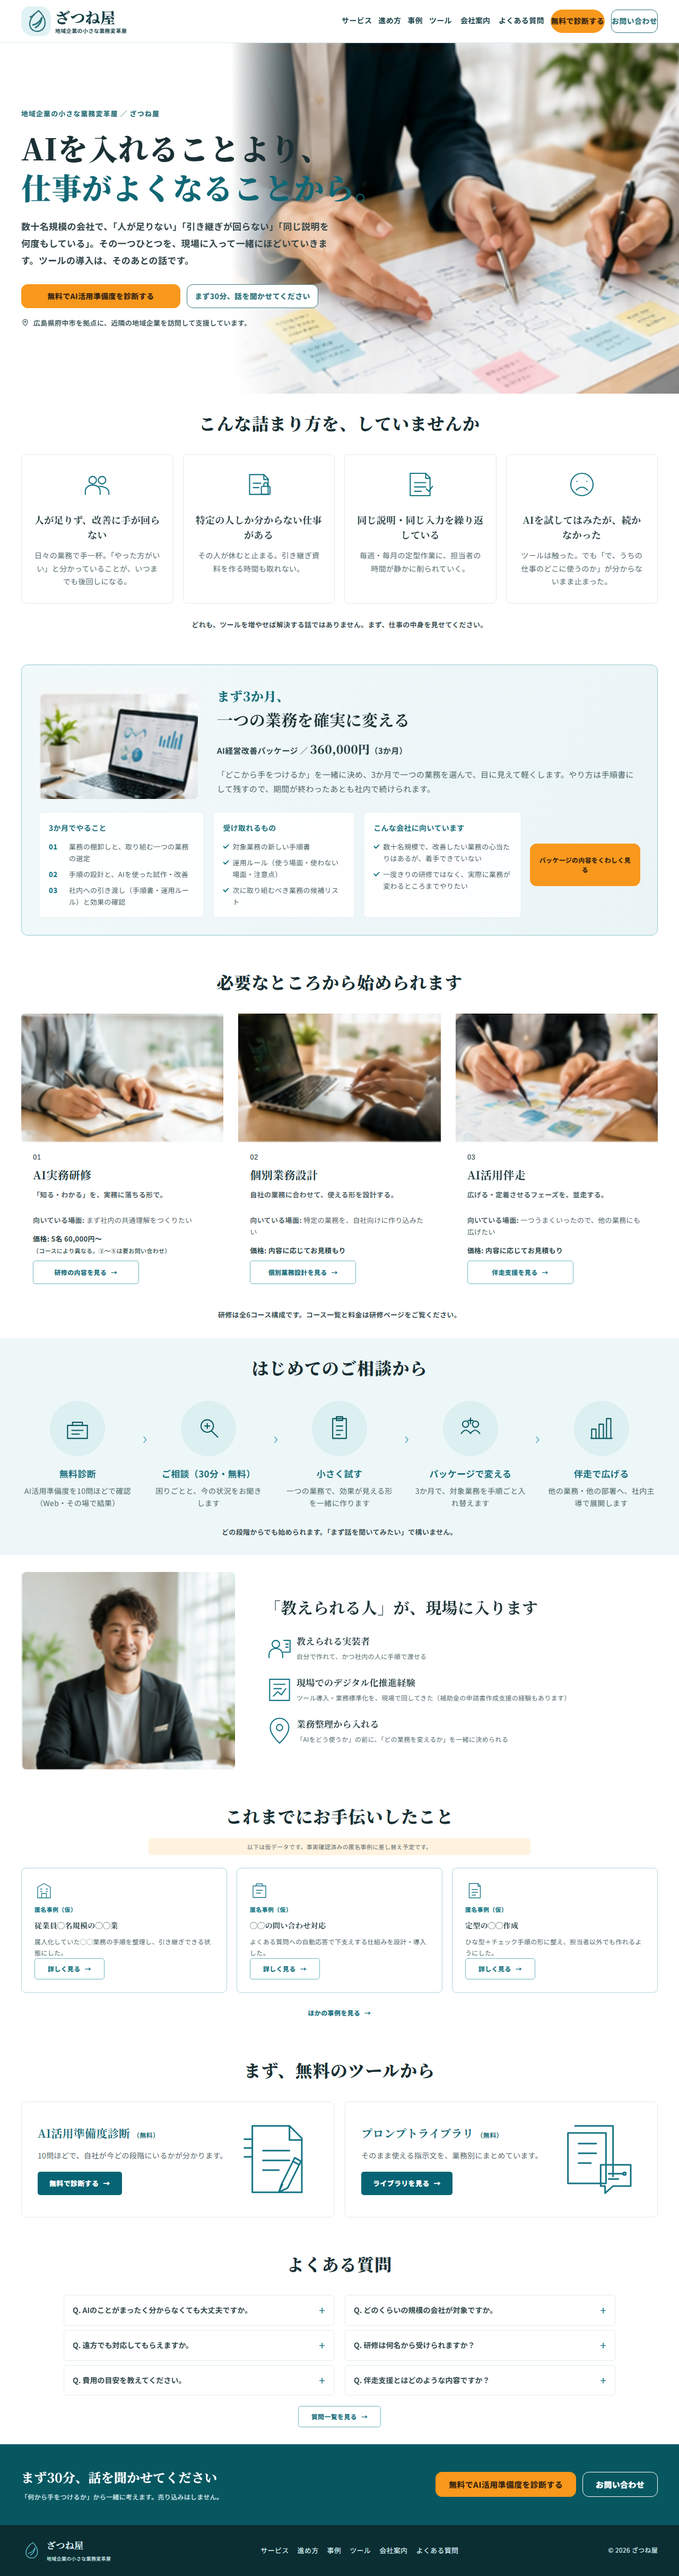
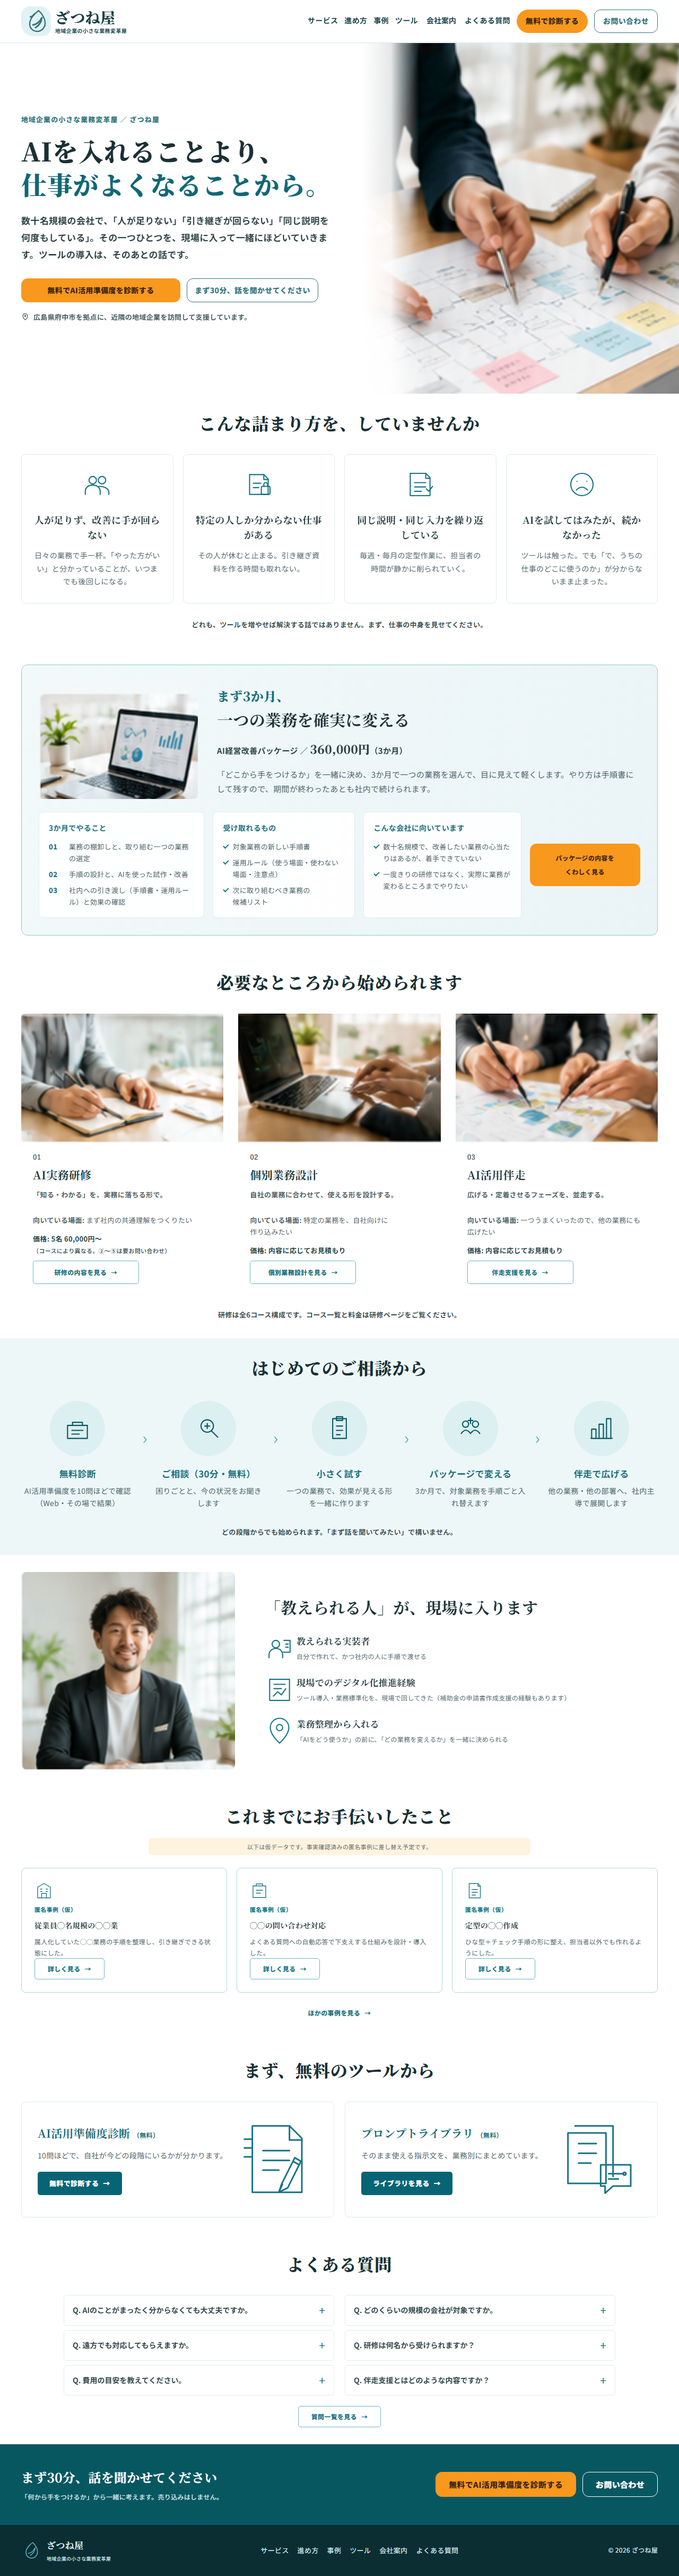
fix: TOPと共通ナビの文字はみ出しを解消

diff --git a/v2/v3-top-page.css b/v2/v3-top-page.css
@@ -4,15 +4,15 @@
 .hero-grid{display:grid;min-height:660px;grid-template-columns:minmax(0,33%) minmax(0,67%);align-items:center;gap:0}
 .hero-copy{position:relative;z-index:2;width:640px;padding:64px 0}
 .eyebrow{margin:0 0 16px;color:var(--teal-dark);font-size:13px;font-weight:800;letter-spacing:.08em}
-.hero h1{margin:0 0 20px;color:#1a3034;font-family:var(--font-serif);font-size:clamp(50px,4.4vw,64px);font-weight:800;letter-spacing:.015em;line-height:1.32}
-.hero-accent{color:#116775;white-space:nowrap}
+.hero h1{width:720px;margin:0 0 20px;color:#1a3034;font-family:var(--font-serif);font-size:clamp(48px,3.7vw,52px);font-weight:800;letter-spacing:.015em;line-height:1.32}
+.hero-intro,.hero-accent,.top-nowrap-part{white-space:nowrap}.hero-accent{color:#116775}
 .hero-lead{max-width:35em;margin:0;color:#2d4145;font-size:17px;line-height:1.9}
 .hero-actions{display:flex;width:560px;flex-wrap:nowrap;gap:12px;margin-top:28px}
 .hero-actions>a{min-width:0;padding-inline:18px;font-size:14px;white-space:nowrap}.hero-actions>a:first-child{width:300px}.hero-actions>a:last-child{width:248px}
 .hero-locale{display:flex;align-items:flex-start;gap:8px;margin:18px 0 0;color:#41585c;font-size:13px;font-weight:700;line-height:1.6}
 .hero-locale svg{width:15px;height:15px;flex:0 0 15px;margin-top:2px;fill:none;stroke:currentColor;stroke-width:2}
 .hero-visual{position:relative;width:calc(100% + max(32px,(100vw - 1200px)/2));height:660px;margin:0;overflow:hidden}
-.hero-visual::after{position:absolute;inset:0 auto 0 0;width:18%;background:linear-gradient(90deg,#fff,transparent);content:""}
+.hero-visual::after{position:absolute;inset:0 auto 0 0;width:42%;background:linear-gradient(90deg,#fff 0 70%,rgba(255,255,255,.9) 85%,transparent 100%);content:""}
 .hero-visual picture,.hero-visual img{display:block;width:100%;height:100%}
 .hero-visual img{object-fit:cover;object-position:center}
 .section{padding-block:32px}
@@ -41,7 +41,7 @@
 .package-column li{position:relative;padding-left:18px;color:#41585c;font-size:13px;line-height:1.7}
 .package-column li::before{position:absolute;top:6px;left:1px;width:8px;height:4px;border-bottom:2px solid #177585;border-left:2px solid #177585;content:"";transform:rotate(-45deg)}
 .package-steps li{display:grid;padding-left:0;grid-template-columns:30px 1fr;gap:8px}.package-steps li::before{content:none}.package-steps strong{color:#177585;font-size:13px;font-weight:900}
-.package-action{width:100%;min-height:80px;align-self:center;padding-inline:16px;font-size:12px;line-height:1.5}
+.package-action{width:100%;min-height:80px;align-self:center;padding-inline:16px;font-size:12px;line-height:1.5;flex-direction:column}
 .section--services{background:#fff}
 .service-grid{display:grid;grid-template-columns:repeat(3,minmax(0,1fr));gap:28px}
 .service-card{display:flex;min-height:440px;overflow:hidden;border:0;border-radius:0;background:#fff;flex-direction:column}
@@ -75,7 +75,7 @@
 .faq-trigger{display:flex;width:100%;min-height:52px;align-items:center;justify-content:space-between;gap:12px;padding:10px 16px;border:0;background:transparent;color:#2d4347;font-size:14px;font-weight:700;text-align:left;cursor:pointer}
 .faq-trigger::after{color:#177585;content:"+";font-size:21px;font-weight:400}.faq-trigger[aria-expanded="true"]::after{content:"−"}.faq-answer{padding:0 16px 14px}.faq-answer p{margin:0;color:#52676b;font-size:12px;line-height:1.7}.faq-more{display:flex;width:max-content;margin:20px auto 0;padding-inline:24px;border:1px solid #6ab5bf;border-radius:5px}
 .final-cta{padding-block:42px;background:#075761;color:#fff}.final-cta-inner{display:grid;grid-template-columns:minmax(0,1fr) auto;gap:28px;align-items:center}.final-cta h2{margin:0 0 6px;font-family:var(--font-serif);font-size:24px}.final-cta p{margin:0;color:#d9eff1;font-size:12px}.final-cta-actions{display:flex;gap:12px}
-@media(max-width:1000px){.hero h1{font-size:40px}.hero-copy{width:auto;padding-right:24px}.hero-actions{width:auto;flex-wrap:wrap}.package-panel{grid-template-columns:260px minmax(0,1fr)}.why-us-layout{grid-template-columns:300px minmax(0,1fr);gap:40px}}
+@media(max-width:1000px){.hero h1{width:auto;font-size:40px}.hero-copy{width:auto;padding-right:24px}.hero-actions{width:auto;flex-wrap:wrap}.package-panel{grid-template-columns:260px minmax(0,1fr)}.why-us-layout{grid-template-columns:300px minmax(0,1fr);gap:40px}}
 @media(max-width:768px){
   .hero-grid{min-height:0;grid-template-columns:1fr}.hero-copy{width:auto;padding:40px 0}.hero-visual{grid-row:1;width:calc(100% + 48px);height:260px;margin-inline:-24px}.hero-visual::after{display:none}
   .problem-grid{grid-template-columns:repeat(2,minmax(0,1fr))}.package-panel{grid-template-columns:1fr}.package-visual{height:220px}.package-detail{grid-template-columns:1fr}.package-action{justify-self:stretch}
@@ -84,7 +84,7 @@
   .tool-card{grid-template-columns:minmax(0,1fr) 110px}.tool-icon{width:100px;height:100px}.final-cta-inner{grid-template-columns:1fr}.final-cta-actions{justify-content:flex-start}
 }
 @media(max-width:480px){
-  .hero-visual{width:calc(100% - 32px);height:252px;margin-inline:16px;border-radius:0 0 8px 8px}.hero-copy{padding:32px 0 36px}.eyebrow{margin-bottom:12px;font-size:12px}.hero h1{margin-bottom:16px;font-size:32px;line-height:1.45}.hero-accent{white-space:normal}.hero-lead{font-size:14px;line-height:1.85}.hero-actions{display:grid;width:auto;gap:10px;margin-top:24px}.hero-actions>a,.hero-actions>a:first-child,.hero-actions>a:last-child{width:100%;min-width:0;min-height:52px;font-size:14px}.hero-locale{margin-top:14px;font-size:12px}
+  .hero-visual{width:calc(100% - 32px);height:252px;margin-inline:16px;border-radius:0 0 8px 8px}.hero-copy{padding:32px 0 36px}.eyebrow{margin-bottom:12px;font-size:12px}.hero h1{margin-bottom:16px;font-size:32px;line-height:1.45}.hero-accent{white-space:normal}.hero-accent-part{display:block;white-space:nowrap}.hero-lead{font-size:14px;line-height:1.85}.hero-actions{display:grid;width:auto;gap:10px;margin-top:24px}.hero-actions>a,.hero-actions>a:first-child,.hero-actions>a:last-child{width:100%;min-width:0;min-height:52px;font-size:14px}.hero-locale{margin-top:14px;font-size:12px}
   .section{padding-block:44px}.section-title{margin-bottom:24px;font-size:22px}.section-closing{margin-top:20px;font-size:11px}
   .problem-grid{grid-template-columns:1fr;gap:12px}.problem-card{display:grid;min-height:0;padding:18px;grid-template-columns:44px 1fr;gap:4px 14px;text-align:left}.line-icon{width:42px;height:42px;grid-row:1/3}.problem-card h3{margin:0;font-size:15px;line-height:1.55}.problem-card p{font-size:12px;line-height:1.65}
   .section--package{padding-block:32px}.package-panel{padding:18px;gap:18px}.package-heading{order:1}.package-visual{height:170px;order:2}.package-detail{order:3}.package-heading .package-kicker{font-size:20px}.package-heading h2{font-size:25px}.package-price{font-size:14px}.package-price strong{font-size:19px}.package-heading>p:last-child{font-size:13px}.package-detail{grid-template-columns:1fr;gap:10px}.package-column{padding:14px}.package-action{order:-1}.package-column:last-child{grid-column:auto}.package-column h3{font-size:14px}.package-column li{font-size:12px}.package-action{min-height:48px;font-size:12px}

diff --git a/v2/index.html b/v2/index.html
@@ -45,7 +45,7 @@
       <div class="comp-wrap hero-grid">
         <div class="hero-copy">
           <p class="eyebrow">地域企業の小さな業務変革屋 ／ ざつね屋</p>
-          <h1 id="hero-title">AIを入れることより、<br><span class="hero-accent">仕事がよくなることから。</span></h1>
+          <h1 id="hero-title"><span class="hero-intro">AIを入れることより、</span><br><span class="hero-accent"><span class="hero-accent-part">仕事がよくなる</span><span class="hero-accent-part">ことから。</span></span></h1>
           <p class="hero-lead">数十名規模の会社で、「人が足りない」「引き継ぎが回らない」「同じ説明を何度もしている」。その一つひとつを、現場に入って一緒にほどいていきます。ツールの導入は、そのあとの話です。</p>
           <div class="hero-actions"><a class="v3-button v3-button--primary" data-diagnosis-link aria-disabled="true">無料でAI活用準備度を診断する</a><a class="v3-button v3-button--secondary" href="./contact.html">まず30分、話を聞かせてください</a></div>
           <p class="hero-locale"><svg aria-hidden="true" viewBox="0 0 24 24"><path d="M12 21s7-6 7-12a7 7 0 1 0-14 0c0 6 7 12 7 12Z"/><circle cx="12" cy="9" r="2"/></svg>広島県府中市を拠点に、近隣の地域企業を訪問して支援しています。</p>
@@ -75,9 +75,9 @@
         <div class="package-heading"><p class="package-kicker">まず3か月、</p><h2 id="package-title">一つの業務を確実に変える</h2><p class="package-price">AI経営改善パッケージ ／ <strong>360,000円</strong>（3か月）</p><p>「どこから手をつけるか」を一緒に決め、3か月で一つの業務を選んで、目に見えて軽くします。やり方は手順書にして残すので、期間が終わったあとも社内で続けられます。</p></div>
         <div class="package-detail">
           <div class="package-column"><h3>3か月でやること</h3><ol class="package-steps"><li><strong>01</strong><span>業務の棚卸しと、取り組む一つの業務の選定</span></li><li><strong>02</strong><span>手順の設計と、AIを使った試作・改善</span></li><li><strong>03</strong><span>社内への引き渡し（手順書・運用ルール）と効果の確認</span></li></ol></div>
-          <div class="package-column"><h3>受け取れるもの</h3><ul><li>対象業務の新しい手順書</li><li>運用ルール（使う場面・使わない場面・注意点）</li><li>次に取り組むべき業務の候補リスト</li></ul></div>
+          <div class="package-column"><h3>受け取れるもの</h3><ul><li>対象業務の新しい手順書</li><li>運用ルール（使う場面・使わない場面・注意点）</li><li>次に取り組むべき業務の<span class="top-nowrap-part">候補リスト</span></li></ul></div>
           <div class="package-column"><h3>こんな会社に向いています</h3><ul><li>数十名規模で、改善したい業務の心当たりはあるが、着手できていない</li><li>一度きりの研修ではなく、実際に業務が変わるところまでやりたい</li></ul></div>
-          <a class="v3-button v3-button--primary package-action" href="./service-management.html">パッケージの内容をくわしく見る</a>
+          <a class="v3-button v3-button--primary package-action" href="./service-management.html"><span class="top-nowrap-part">パッケージの内容を</span><span class="top-nowrap-part">くわしく見る</span></a>
         </div>
       </div>
     </section>
@@ -87,7 +87,7 @@
         <h2 id="services-title" class="section-title">必要なところから始められます</h2>
         <div class="service-grid fade-in">
           <article class="service-card"><figure><img src="./assets/comp-parts/service-training.png" data-asset-role="service-training" width="162" height="103" alt="研修で業務の進め方を確認する様子" loading="lazy"></figure><p class="service-number">01</p><h3>AI実務研修</h3><p class="service-lead">「知る・わかる」を、実務に落ちる形で。</p><p><b>向いている場面:</b> まず社内の共通理解をつくりたい</p><p class="service-price">価格: 5名 60,000円〜<br><small>（コースにより異なる。②〜⑤は要お問い合わせ）</small></p><a class="card-link" href="./service-training.html">研修の内容を見る</a></article>
-          <article class="service-card"><figure><img src="./assets/comp-parts/service-design.png" data-asset-role="service-order" width="162" height="103" alt="現場で業務の流れを一緒に整理する様子" loading="lazy"></figure><p class="service-number">02</p><h3>個別業務設計</h3><p class="service-lead">自社の業務に合わせて、使える形を設計する。</p><p><b>向いている場面:</b> 特定の業務を、自社向けに作り込みたい</p><p class="service-price">価格: 内容に応じてお見積もり</p><a class="card-link" href="./service-order.html">個別業務設計を見る</a></article>
+          <article class="service-card"><figure><img src="./assets/comp-parts/service-design.png" data-asset-role="service-order" width="162" height="103" alt="現場で業務の流れを一緒に整理する様子" loading="lazy"></figure><p class="service-number">02</p><h3>個別業務設計</h3><p class="service-lead">自社の業務に合わせて、使える形を設計する。</p><p><b>向いている場面:</b> 特定の業務を、自社向けに<span class="top-nowrap-part">作り込みたい</span></p><p class="service-price">価格: 内容に応じてお見積もり</p><a class="card-link" href="./service-order.html">個別業務設計を見る</a></article>
           <article class="service-card"><figure><img src="./assets/comp-parts/service-support.png" data-asset-role="service-banso" width="177" height="103" alt="書類を前に相談しながら進める様子" loading="lazy"></figure><p class="service-number">03</p><h3>AI活用伴走</h3><p class="service-lead">広げる・定着させるフェーズを、並走する。</p><p><b>向いている場面:</b> 一つうまくいったので、他の業務にも広げたい</p><p class="service-price">価格: 内容に応じてお見積もり</p><a class="card-link" href="./service-banso.html">伴走支援を見る</a></article>
         </div>
         <p class="section-closing">研修は全6コース構成です。コース一覧と料金は研修ページをご覧ください。</p>

diff --git a/v2/top-comp.css b/v2/top-comp.css
@@ -192,8 +192,10 @@ a[data-diagnosis-link][aria-disabled="true"]{opacity:.6;cursor:not-allowed;point
 .site-nav__dropdown-menu .site-nav__link{padding-inline:var(--space-12);border-radius:var(--space-8)}
 .site-nav__dropdown-menu .site-nav__link:hover{background:var(--ground)}
 .nav-contact{justify-content:center;padding-inline:var(--space-16);border:1px solid var(--teal-dark);border-radius:var(--radius-card);background:var(--surface);color:var(--teal-dark);box-shadow:none;font-weight:900}
+.comp-nav .nav-contact{flex:0 0 auto;padding-inline:var(--space-16);white-space:nowrap}
 .nav-contact:hover{border-bottom-color:var(--teal-dark);background:var(--teal-wash)}
 .nav-diagnosis{justify-content:center;padding-inline:var(--space-16);border:1px solid var(--orange);border-radius:999px;background:var(--orange);color:var(--orange-ink);font-weight:900}
+.comp-nav .nav-diagnosis{flex:0 0 auto;padding-inline:var(--space-16);white-space:nowrap}
 .nav-diagnosis:hover{border-bottom-color:var(--orange);background:#F4AF48}
 .comp-menu,#nav-hamburger{display:none;width:var(--size-control);min-width:var(--size-control);min-height:var(--size-control);flex-direction:column;justify-content:center;align-items:center;gap:var(--space-4);padding:var(--space-8);border:1px solid var(--line);border-radius:var(--space-8);background:var(--surface);cursor:pointer}
 .comp-menu span{display:block;width:24px;height:2px;margin:0;background:var(--ink);transition:transform .2s ease,opacity .2s ease}
@@ -229,7 +231,7 @@ a[data-diagnosis-link][aria-disabled="true"]{opacity:.6;cursor:not-allowed;point
 .comp-wrap,.v3-container{width:min(100% - 48px,720px)}.header-inner{width:min(100% - 48px,720px);min-height:80px}.brand{min-width:0}.brand-mark{width:56px;height:56px}.brand-copy strong{font-size:28px}
 .brand-copy small{display:none}
 .comp-menu,#nav-hamburger{display:none}.js-nav .comp-menu,.js-nav #nav-hamburger{display:flex}.comp-nav{position:absolute;top:var(--space-64);right:0;left:0;display:grid;padding:var(--space-16) var(--space-24) var(--space-24);border-bottom:1px solid var(--line);background:var(--surface);box-shadow:var(--shadow-card)}
-.js-nav .comp-nav{display:none}.js-nav .comp-nav.is-open{display:grid}.site-nav__link,.site-nav__dropdown-trigger{width:100%;justify-content:flex-start}.site-nav__dropdown-menu{position:static;display:grid;min-width:0;padding:0 0 0 var(--space-16);border:0;box-shadow:none}.js-nav .site-nav__dropdown-menu{display:none}.js-nav .site-nav__item--dropdown.is-open .site-nav__dropdown-menu{display:grid}.nav-contact{justify-content:center}
+.js-nav .comp-nav{display:none}.js-nav .comp-nav.is-open{display:grid}.site-nav__link,.site-nav__dropdown-trigger{width:100%;justify-content:flex-start}.site-nav__dropdown-menu{position:static;display:grid;min-width:0;padding:0 0 0 var(--space-16);border:0;box-shadow:none}.js-nav .site-nav__dropdown-menu{display:none}.js-nav .site-nav__item--dropdown.is-open .site-nav__dropdown-menu{display:grid}.nav-diagnosis,.nav-contact{justify-content:center}
 .sticky-cta{min-height:96px;justify-content:flex-start;padding-right:var(--space-64);padding-left:var(--space-24)}.comp-footer{padding-block:var(--space-16)}.footer-row{align-items:flex-start;flex-direction:column;gap:var(--space-12)}.footer-row nav{display:grid;width:100%;grid-template-columns:repeat(2,minmax(0,1fr));gap:0 var(--space-12)}
 }
 @media(max-width:400px){.comp-wrap,.v3-container,.header-inner{width:min(100% - 40px,480px)}.brand{font-size:18px}.sticky-cta{min-height:112px;gap:var(--space-12);padding:var(--space-12) var(--space-64) var(--space-12) var(--space-24)}.sticky-cta__text{font-size:12px}.sticky-cta__btn{padding-inline:var(--space-12);font-size:13px}.footer-row{display:grid;grid-template-columns:104px minmax(0,1fr);gap:var(--space-8) var(--space-16)}.footer-row nav{grid-template-columns:repeat(2,minmax(0,1fr))}.footer-row a{font-size:12px}.footer-row small{grid-column:1 / -1}}
